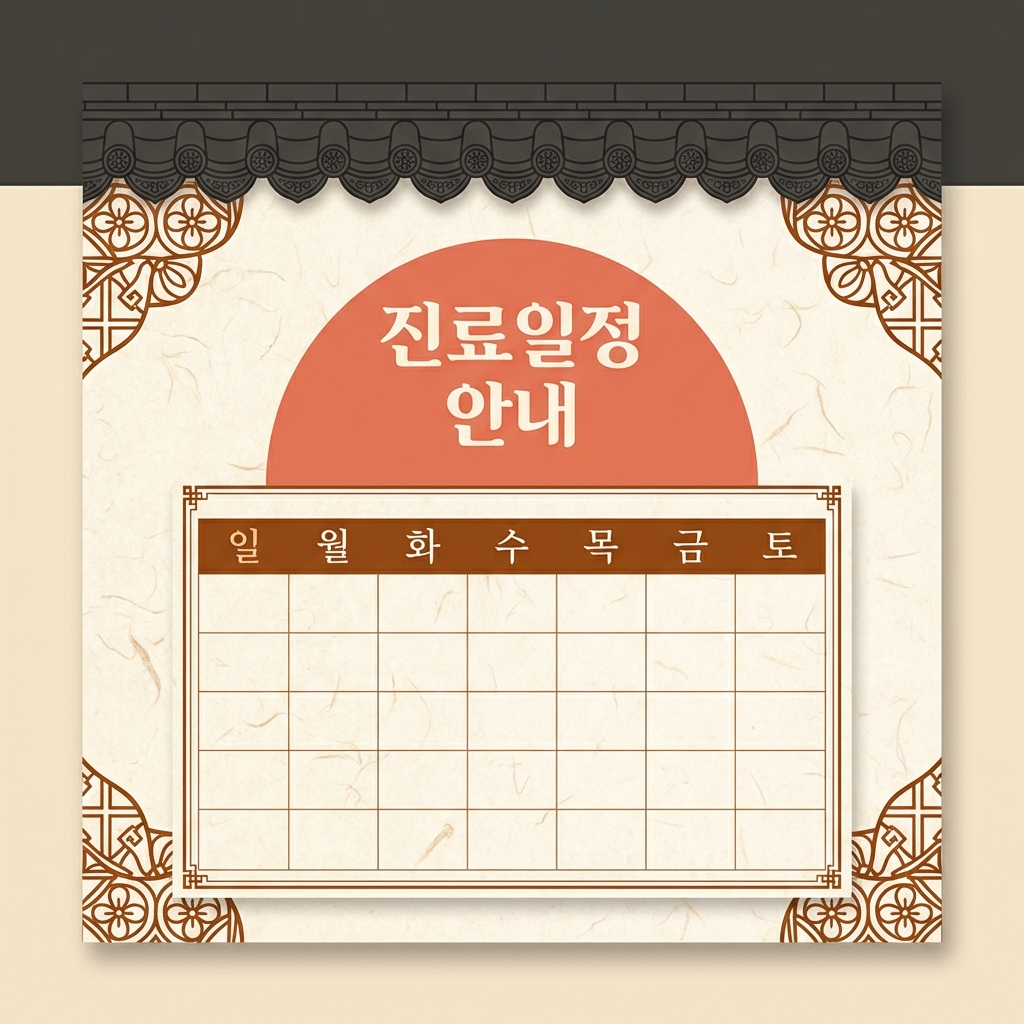
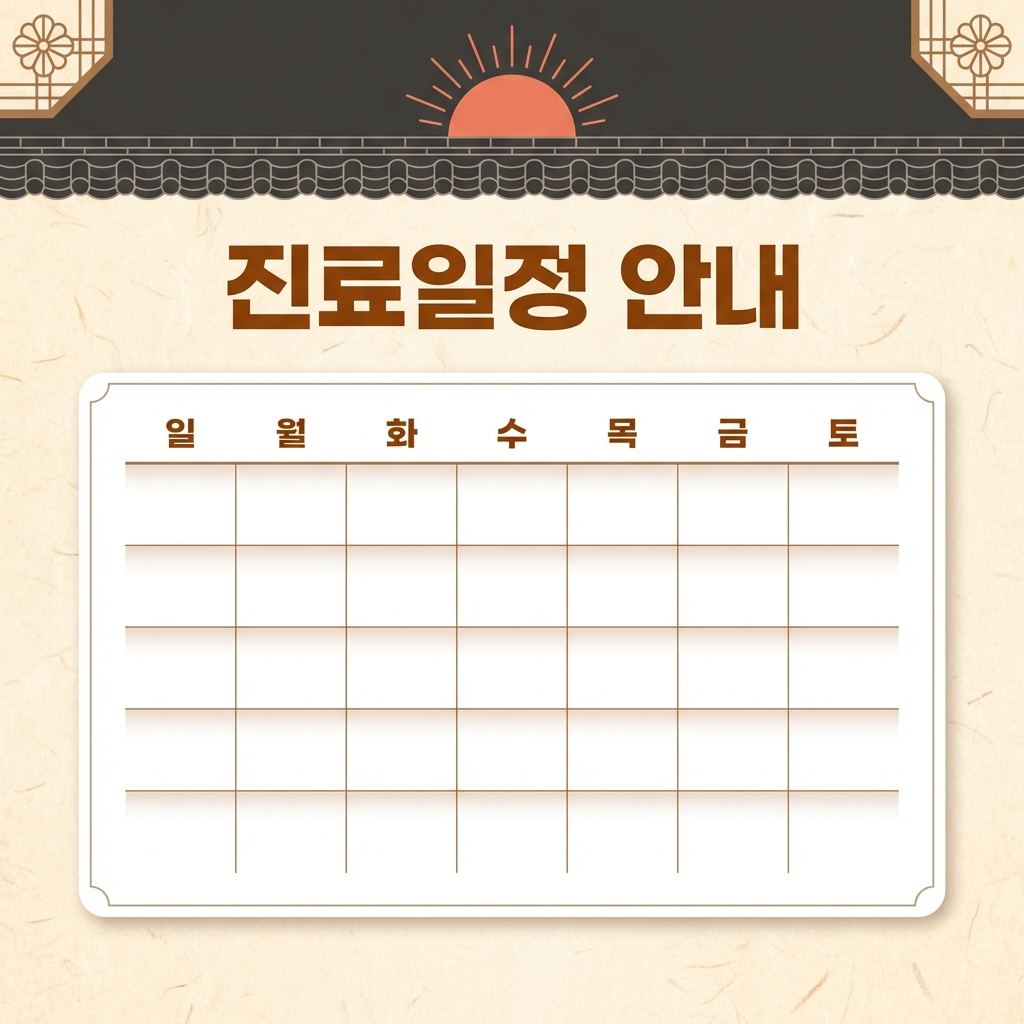
새 12개 AI 프리뷰 이미지 생성 + CalendarPreviews img 전환
- 기존 구 ID 이미지 삭제, 새 12개 생성 (총 5.7MB)
- CalendarPreviews.tsx: CSS 무드카드 → img 태그 (63줄)
- 새 ID: cherry_blossom, maple_autumn, snowflake_winter,
  sunflower_summer, korean_classic, bojagi_holiday, ink_wash,
  navy_professional, mint_wellness, coral_sns, kids_pastel, beige_gold
- fallback: groupColor 배경 + 한국어 이름

https://claude.ai/code/session_0146MbTZpAY12j7EZ6V4viNe

diff --git a/next-app/components/CalendarPreviews.tsx b/next-app/components/CalendarPreviews.tsx
@@ -1,9 +1,27 @@
 /**
- * CalendarPreviews.tsx — 달력 테마 무드 카드 프리뷰
+ * CalendarPreviews.tsx — 달력 테마 프리뷰 (AI 생성 정적 이미지)
  *
- * 각 템플릿의 색상·장식·분위기를 보여주는 무드 카드.
- * 달력 격자 없이 시그니처 장식 + 3색 팔레트 바.
+ * public/calendar-previews/{themeValue}.png 이미지를 표시.
+ * 로드 실패 시 groupColor 배경 + 이름 fallback.
  */
+'use client';
+
+import { useState } from 'react';
+
+const THEME_NAMES: Record<string, string> = {
+  sch_cherry_blossom: '벚꽃 봄',
+  sch_sunflower_summer: '해바라기 여름',
+  sch_maple_autumn: '단풍 가을',
+  sch_snowflake_winter: '눈꽃 겨울',
+  sch_korean_classic: '한방 전통',
+  sch_bojagi_holiday: '보자기 명절',
+  sch_ink_wash: '수묵화',
+  sch_navy_professional: '네이비 프로',
+  sch_mint_wellness: '민트 웰니스',
+  sch_coral_sns: '코랄 SNS',
+  sch_kids_pastel: '키즈 파스텔',
+  sch_beige_gold: '베이지 골드',
+};
 
 export function CalendarThemePreview({
   themeValue,
@@ -14,251 +32,30 @@ export function CalendarThemePreview({
   groupColor?: string;
   size?: 'sm' | 'lg';
 }) {
+  const [imgError, setImgError] = useState(false);
   const lg = size === 'lg';
   const rd = lg ? 'rounded-xl' : 'rounded-lg';
 
-  /* ── 팔레트 바 ── */
-  function Pal({ c }: { c: [string, string, string] }) {
+  if (imgError) {
     return (
-      <div className="flex w-full overflow-hidden" style={{ height: lg ? 6 : 4, borderRadius: 99 }}>
-        {c.map((color, i) => <div key={i} className="flex-1" style={{ background: color }} />)}
+      <div
+        className={`w-full h-full flex items-center justify-center ${rd}`}
+        style={{ background: groupColor || '#64748b' }}
+      >
+        <span className={`${lg ? 'text-[11px]' : 'text-[7px]'} font-bold text-white text-center leading-tight px-1`}>
+          {THEME_NAMES[themeValue] || themeValue}
+        </span>
       </div>
     );
   }
 
-  /* ── 공통 래퍼 ── */
-  function C({ children, pal, bg }: { children: React.ReactNode; pal: [string, string, string]; bg?: string }) {
-    return (
-      <div className={`w-full h-full flex flex-col overflow-hidden ${rd}`} style={{ background: bg }}>
-        <div className="flex-1 relative overflow-hidden flex flex-col">{children}</div>
-        <div style={{ padding: lg ? '3px 5px 4px' : '2px 4px 3px' }}><Pal c={pal} /></div>
-      </div>
-    );
-  }
-
-  /* ═══ 1. 벚꽃 봄 ═══ */
-  if (themeValue === 'sch_cherry_blossom') {
-    return (
-      <C pal={['#ec4899', '#be185d', '#fdf2f8']} bg="linear-gradient(180deg, #fce7f3, #fdf2f8)">
-        {/* 상단 로즈 바 */}
-        <div style={{ background: '#be185d', padding: lg ? '7px 6px' : '4px 4px', flexShrink: 0 }}>
-          <span className={`${lg ? 'text-[10px]' : 'text-[7px]'} font-bold text-white`}>진료일정</span>
-        </div>
-        {/* 꽃잎 scatter — 배경 전체에 분산 */}
-        <div className="flex-1 relative">
-          <div className="absolute rounded-full" style={{ top: lg ? 4 : 2, right: lg ? 10 : 6, width: lg ? 10 : 6, height: lg ? 10 : 6, background: '#f9a8d4', opacity: 0.45 }} />
-          <div className="absolute rounded-full" style={{ top: lg ? 14 : 8, left: lg ? 8 : 5, width: lg ? 6 : 4, height: lg ? 6 : 4, background: '#fbcfe8', opacity: 0.35 }} />
-          <div className="absolute rounded-full" style={{ top: lg ? 8 : 5, left: lg ? 28 : 16, width: lg ? 12 : 7, height: lg ? 12 : 7, background: '#f9a8d4', opacity: 0.25 }} />
-          <div className="absolute rounded-full" style={{ bottom: lg ? 12 : 7, right: lg ? 14 : 8, width: lg ? 8 : 5, height: lg ? 8 : 5, background: '#fbcfe8', opacity: 0.5 }} />
-          <div className="absolute rounded-full" style={{ bottom: lg ? 4 : 2, left: lg ? 16 : 10, width: lg ? 5 : 3, height: lg ? 5 : 3, background: '#f9a8d4', opacity: 0.3 }} />
-          <div className="absolute rounded-full" style={{ top: lg ? 22 : 13, right: lg ? 6 : 3, width: lg ? 7 : 4, height: lg ? 7 : 4, background: '#fda4af', opacity: 0.2 }} />
-        </div>
-      </C>
-    );
-  }
-
-  /* ═══ 2. 해바라기 여름 ═══ */
-  if (themeValue === 'sch_sunflower_summer') {
-    return (
-      <C pal={['#eab308', '#ca8a04', '#fefce8']} bg="linear-gradient(135deg, #fef9c3, #fefce8)">
-        {/* 골드 바 */}
-        <div style={{ background: 'linear-gradient(135deg, #ca8a04, #eab308)', padding: lg ? '7px 6px' : '4px 4px', flexShrink: 0 }}>
-          <span className={`${lg ? 'text-[10px]' : 'text-[7px]'} font-bold text-white`}>진료일정</span>
-        </div>
-        {/* 햇살 rays + 해바라기 원 분산 */}
-        <div className="flex-1 relative overflow-hidden">
-          {/* 대각선 햇살 줄무늬 */}
-          <div className="absolute" style={{ top: 0, left: lg ? -10 : -6, width: '140%', height: lg ? 4 : 3, background: 'rgba(255,255,255,0.3)', transform: 'rotate(25deg)', transformOrigin: 'top left' }} />
-          <div className="absolute" style={{ top: lg ? 12 : 7, left: lg ? -10 : -6, width: '140%', height: lg ? 3 : 2, background: 'rgba(255,255,255,0.2)', transform: 'rotate(25deg)', transformOrigin: 'top left' }} />
-          {/* 해바라기 원 — 우상단, 좌하단 */}
-          <div className="absolute rounded-full" style={{ top: lg ? 4 : 2, right: lg ? 6 : 3, width: lg ? 16 : 10, height: lg ? 16 : 10, background: '#fbbf24', border: `${lg ? 2 : 1.5}px solid #ca8a04` }} />
-          <div className="absolute rounded-full" style={{ bottom: lg ? 6 : 3, left: lg ? 8 : 4, width: lg ? 12 : 8, height: lg ? 12 : 8, background: '#fde047', border: `${lg ? 2 : 1.5}px solid #ca8a04`, opacity: 0.7 }} />
-          <div className="absolute rounded-full" style={{ bottom: lg ? 2 : 1, right: lg ? 16 : 10, width: lg ? 7 : 4, height: lg ? 7 : 4, background: '#fbbf24', opacity: 0.4 }} />
-        </div>
-      </C>
-    );
-  }
-
-  /* ═══ 3. 단풍 가을 ═══ */
-  if (themeValue === 'sch_maple_autumn') {
-    return (
-      <C pal={['#ea580c', '#c2410c', '#fff7ed']} bg="linear-gradient(180deg, #ea580c 0%, #fed7aa 40%, #fff7ed 100%)">
-        {/* 오렌지 영역에 제목 */}
-        <div style={{ padding: lg ? '7px 6px' : '4px 4px', flexShrink: 0 }}>
-          <span className={`${lg ? 'text-[10px]' : 'text-[7px]'} font-bold text-white`}>진료일정</span>
-        </div>
-        {/* 낙엽 scatter — 배경 전체에 분산 */}
-        <div className="flex-1 relative">
-          {/* 마름모(잎) — 다양한 색/크기/opacity */}
-          <div className="absolute" style={{ top: lg ? 2 : 1, right: lg ? 10 : 6, width: lg ? 8 : 5, height: lg ? 8 : 5, background: '#ea580c', opacity: 0.35, transform: 'rotate(45deg)', borderRadius: 1 }} />
-          <div className="absolute" style={{ top: lg ? 10 : 6, left: lg ? 8 : 5, width: lg ? 6 : 4, height: lg ? 6 : 4, background: '#eab308', opacity: 0.3, transform: 'rotate(45deg)', borderRadius: 1 }} />
-          <div className="absolute" style={{ top: lg ? 6 : 3, left: lg ? 24 : 14, width: lg ? 10 : 6, height: lg ? 10 : 6, background: '#92400e', opacity: 0.2, transform: 'rotate(45deg)', borderRadius: 1 }} />
-          <div className="absolute rounded-full" style={{ bottom: lg ? 8 : 5, right: lg ? 8 : 5, width: lg ? 7 : 4, height: lg ? 7 : 4, background: '#f97316', opacity: 0.25 }} />
-          <div className="absolute" style={{ bottom: lg ? 3 : 2, left: lg ? 14 : 8, width: lg ? 5 : 3, height: lg ? 5 : 3, background: '#dc2626', opacity: 0.15, transform: 'rotate(45deg)', borderRadius: 1 }} />
-        </div>
-      </C>
-    );
-  }
-
-  /* ═══ 4. 눈꽃 겨울 ═══ */
-  if (themeValue === 'sch_snowflake_winter') {
-    return (
-      <C pal={['#0ea5e9', '#0284c7', '#f0f9ff']} bg="linear-gradient(180deg, #e0f2fe, #ffffff)">
-        <div style={{ background: 'linear-gradient(135deg, #0ea5e9, #38bdf8)', padding: lg ? '8px 6px' : '5px 4px', flexShrink: 0 }}>
-          <span className={`${lg ? 'text-[10px]' : 'text-[7px]'} font-bold text-white`}>진료일정</span>
-        </div>
-        <div className="flex-1 relative">
-          {/* 눈꽃 ✦ */}
-          <div className="absolute pointer-events-none" style={{ top: lg ? 6 : 3, right: lg ? 8 : 5, color: '#7dd3fc', fontSize: lg ? 12 : 7, opacity: 0.4 }}>✦</div>
-          <div className="absolute pointer-events-none" style={{ top: lg ? 18 : 10, left: lg ? 10 : 6, color: '#bae6fd', fontSize: lg ? 8 : 5, opacity: 0.3 }}>✦</div>
-          <div className="absolute pointer-events-none" style={{ bottom: lg ? 8 : 5, right: lg ? 16 : 10, color: '#7dd3fc', fontSize: lg ? 6 : 4, opacity: 0.25 }}>✦</div>
-        </div>
-      </C>
-    );
-  }
-
-  /* ═══ 5. 한방 전통 ═══ */
-  if (themeValue === 'sch_korean_classic') {
-    const hw = lg ? 14 : 10;
-    return (
-      <C pal={['#92400e', '#78350f', '#fef3c7']} bg="#f5e6d0">
-        <div className="flex flex-col items-center" style={{ background: '#44403c', flexShrink: 0, paddingTop: lg ? 6 : 4 }}>
-          <div className="flex items-center justify-center" style={{ width: hw * 2, height: hw, background: '#e8795a', borderRadius: `${hw * 2}px ${hw * 2}px 0 0`, marginBottom: -1 }}>
-            <span className={`${lg ? 'text-[7px]' : 'text-[5px]'} font-black text-white`}>진료</span>
-          </div>
-        </div>
-        <div className="flex-1 relative">
-          <div className="absolute pointer-events-none" style={{ bottom: lg ? 4 : 2, right: lg ? 5 : 3, color: '#92400e', fontSize: lg ? 8 : 5, opacity: 0.25 }}>✿</div>
-        </div>
-      </C>
-    );
-  }
-
-  /* ═══ 6. 보자기 명절 ═══ */
-  if (themeValue === 'sch_bojagi_holiday') {
-    return (
-      <C pal={['#b91c1c', '#991b1b', '#fef2f2']} bg="#fef2f2">
-        <div className="flex-1 flex flex-col overflow-hidden" style={{ border: `${lg ? 3 : 2}px solid #c9a96e`, borderRadius: lg ? 6 : 4, margin: lg ? 4 : 2 }}>
-          {/* 색동 줄무늬 2개 */}
-          <div className="flex" style={{ height: lg ? 4 : 3, flexShrink: 0 }}>
-            <div className="flex-1" style={{ background: '#dc2626' }} />
-            <div className="flex-1" style={{ background: '#2563eb' }} />
-            <div className="flex-1" style={{ background: '#eab308' }} />
-            <div className="flex-1" style={{ background: '#16a34a' }} />
-          </div>
-          <div className="flex-1 flex items-center justify-center">
-            <span className={`${lg ? 'text-[10px]' : 'text-[7px]'} font-bold`} style={{ color: '#991b1b' }}>명절</span>
-          </div>
-          <div className="flex" style={{ height: lg ? 4 : 3, flexShrink: 0 }}>
-            <div className="flex-1" style={{ background: '#dc2626' }} />
-            <div className="flex-1" style={{ background: '#2563eb' }} />
-            <div className="flex-1" style={{ background: '#eab308' }} />
-            <div className="flex-1" style={{ background: '#16a34a' }} />
-          </div>
-        </div>
-      </C>
-    );
-  }
-
-  /* ═══ 7. 수묵화 ═══ */
-  if (themeValue === 'sch_ink_wash') {
-    return (
-      <C pal={['#374151', '#1f2937', '#f9fafb']} bg="#ffffff">
-        <div className="flex-1 flex flex-row overflow-hidden">
-          {/* 먹 번짐 */}
-          <div style={{ width: '30%', background: 'linear-gradient(180deg, #374151, #9ca3af, transparent)', opacity: 0.15 }} />
-          <div className="flex-1 flex flex-col items-center justify-center">
-            <span className={`${lg ? 'text-[11px]' : 'text-[8px]'} font-serif font-bold`} style={{ color: '#1f2937' }}>진료일정</span>
-          </div>
-        </div>
-        {/* 빨간 낙관 */}
-        <div className="absolute" style={{ bottom: lg ? 10 : 6, right: lg ? 8 : 5, width: lg ? 8 : 5, height: lg ? 8 : 5, background: '#dc2626', borderRadius: 1 }} />
-      </C>
-    );
-  }
-
-  /* ═══ 8. 네이비 프로 ═══ */
-  if (themeValue === 'sch_navy_professional') {
-    return (
-      <C pal={['#1e3a5f', '#0f2444', '#ffffff']} bg="#0f2444">
-        <div className="flex-1 flex flex-col">
-          <div className="flex items-center" style={{ padding: lg ? '6px 6px' : '4px 4px', flexShrink: 0 }}>
-            <span className={`${lg ? 'text-[10px]' : 'text-[7px]'} font-bold text-white`}>진료일정</span>
-          </div>
-          <div style={{ height: 1, background: '#c9a96e', margin: lg ? '0 6px' : '0 4px', flexShrink: 0 }} />
-          <div className="flex-1 flex items-center justify-center" style={{ padding: lg ? '4px 8px 6px' : '3px 5px 4px' }}>
-            <div className="w-full h-full" style={{ background: '#fff', borderRadius: lg ? 6 : 3, boxShadow: '0 2px 8px rgba(0,0,0,0.25)' }} />
-          </div>
-        </div>
-      </C>
-    );
-  }
-
-  /* ═══ 9. 민트 웰니스 ═══ */
-  if (themeValue === 'sch_mint_wellness') {
-    return (
-      <C pal={['#14b8a6', '#0f766e', '#f0fdfa']} bg="#f0fdfa">
-        <div style={{ background: '#0f766e', padding: lg ? '8px 6px' : '5px 4px', flexShrink: 0 }}>
-          <span className={`${lg ? 'text-[10px]' : 'text-[7px]'} font-bold text-white`}>진료일정</span>
-        </div>
-        <div className="flex-1 relative">
-          <div className="absolute pointer-events-none" style={{ bottom: lg ? 6 : 3, right: lg ? 6 : 4, color: '#10b981', fontSize: lg ? 14 : 9, opacity: 0.3 }}>🌿</div>
-        </div>
-      </C>
-    );
-  }
-
-  /* ═══ 10. 코랄 SNS ═══ */
-  if (themeValue === 'sch_coral_sns') {
-    return (
-      <C pal={['#f97316', '#ea580c', '#fff7ed']} bg="#fff7ed">
-        <div style={{ background: 'linear-gradient(135deg, #f97316, #fed7aa)', height: '45%', flexShrink: 0, display: 'flex', alignItems: 'center', padding: lg ? '0 6px' : '0 4px' }}>
-          <span className={`${lg ? 'text-[10px]' : 'text-[7px]'} font-bold text-white`}>진료일정</span>
-        </div>
-        <div className="flex-1 flex items-center justify-center" style={{ padding: lg ? '4px 8px' : '2px 5px' }}>
-          <div className="w-full h-full" style={{ background: '#fff', borderRadius: lg ? 10 : 6, border: '1px solid #fed7aa' }} />
-        </div>
-      </C>
-    );
-  }
-
-  /* ═══ 11. 키즈 파스텔 ═══ */
-  if (themeValue === 'sch_kids_pastel') {
-    const colors = ['#f9a8d4', '#fdba74', '#fde68a', '#86efac', '#7dd3fc', '#c4b5fd'];
-    return (
-      <C pal={['#a855f7', '#7c3aed', '#faf5ff']} bg="#faf5ff">
-        {/* 무지개 줄무늬 */}
-        <div className="flex flex-col" style={{ flexShrink: 0 }}>
-          {colors.map((c, i) => <div key={i} style={{ height: lg ? 3 : 2, background: c }} />)}
-        </div>
-        <div className="flex-1 flex items-center justify-center relative">
-          <span className={`${lg ? 'text-[10px]' : 'text-[7px]'} font-bold`} style={{ color: '#7c3aed' }}>진료일정</span>
-          <div className="absolute pointer-events-none" style={{ top: lg ? 4 : 2, right: lg ? 8 : 5, color: '#c4b5fd', fontSize: lg ? 8 : 5, opacity: 0.4 }}>☁</div>
-          <div className="absolute pointer-events-none" style={{ bottom: lg ? 6 : 3, left: lg ? 8 : 5, color: '#fbbf24', fontSize: lg ? 7 : 4, opacity: 0.35 }}>★</div>
-        </div>
-      </C>
-    );
-  }
-
-  /* ═══ 12. 베이지 골드 ═══ */
-  if (themeValue === 'sch_beige_gold') {
-    const bh = lg ? 8 : 5;
-    return (
-      <C pal={['#a3836a', '#78583d', '#faf7f4']} bg="#faf7f4">
-        <div style={{ height: bh, background: 'linear-gradient(90deg, #c9a96e, #e8d5a8, #c9a96e)', flexShrink: 0 }} />
-        <div className="flex-1 flex flex-col items-center justify-center">
-          <span className={`${lg ? 'text-[11px]' : 'text-[7px]'} font-bold font-serif`} style={{ color: '#78583d' }}>진료일정</span>
-          <div className="w-3/5 mt-1" style={{ borderTop: '1px solid #c9a96e' }} />
-        </div>
-        <div style={{ height: bh, background: 'linear-gradient(90deg, #c9a96e, #e8d5a8, #c9a96e)', flexShrink: 0 }} />
-      </C>
-    );
-  }
-
-  /* ═══ fallback ═══ */
   return (
-    <div className={`w-full h-full flex items-center justify-center ${rd}`} style={{ background: groupColor || '#64748b' }}>
-      <span className={`${lg ? 'text-[11px]' : 'text-[6px]'} font-bold text-white`}>미리보기</span>
-    </div>
+    <img
+      src={`/calendar-previews/${themeValue}.png`}
+      alt={THEME_NAMES[themeValue] || themeValue}
+      loading="lazy"
+      onError={() => setImgError(true)}
+      className={`w-full h-full object-cover ${rd}`}
+    />
   );
 }
